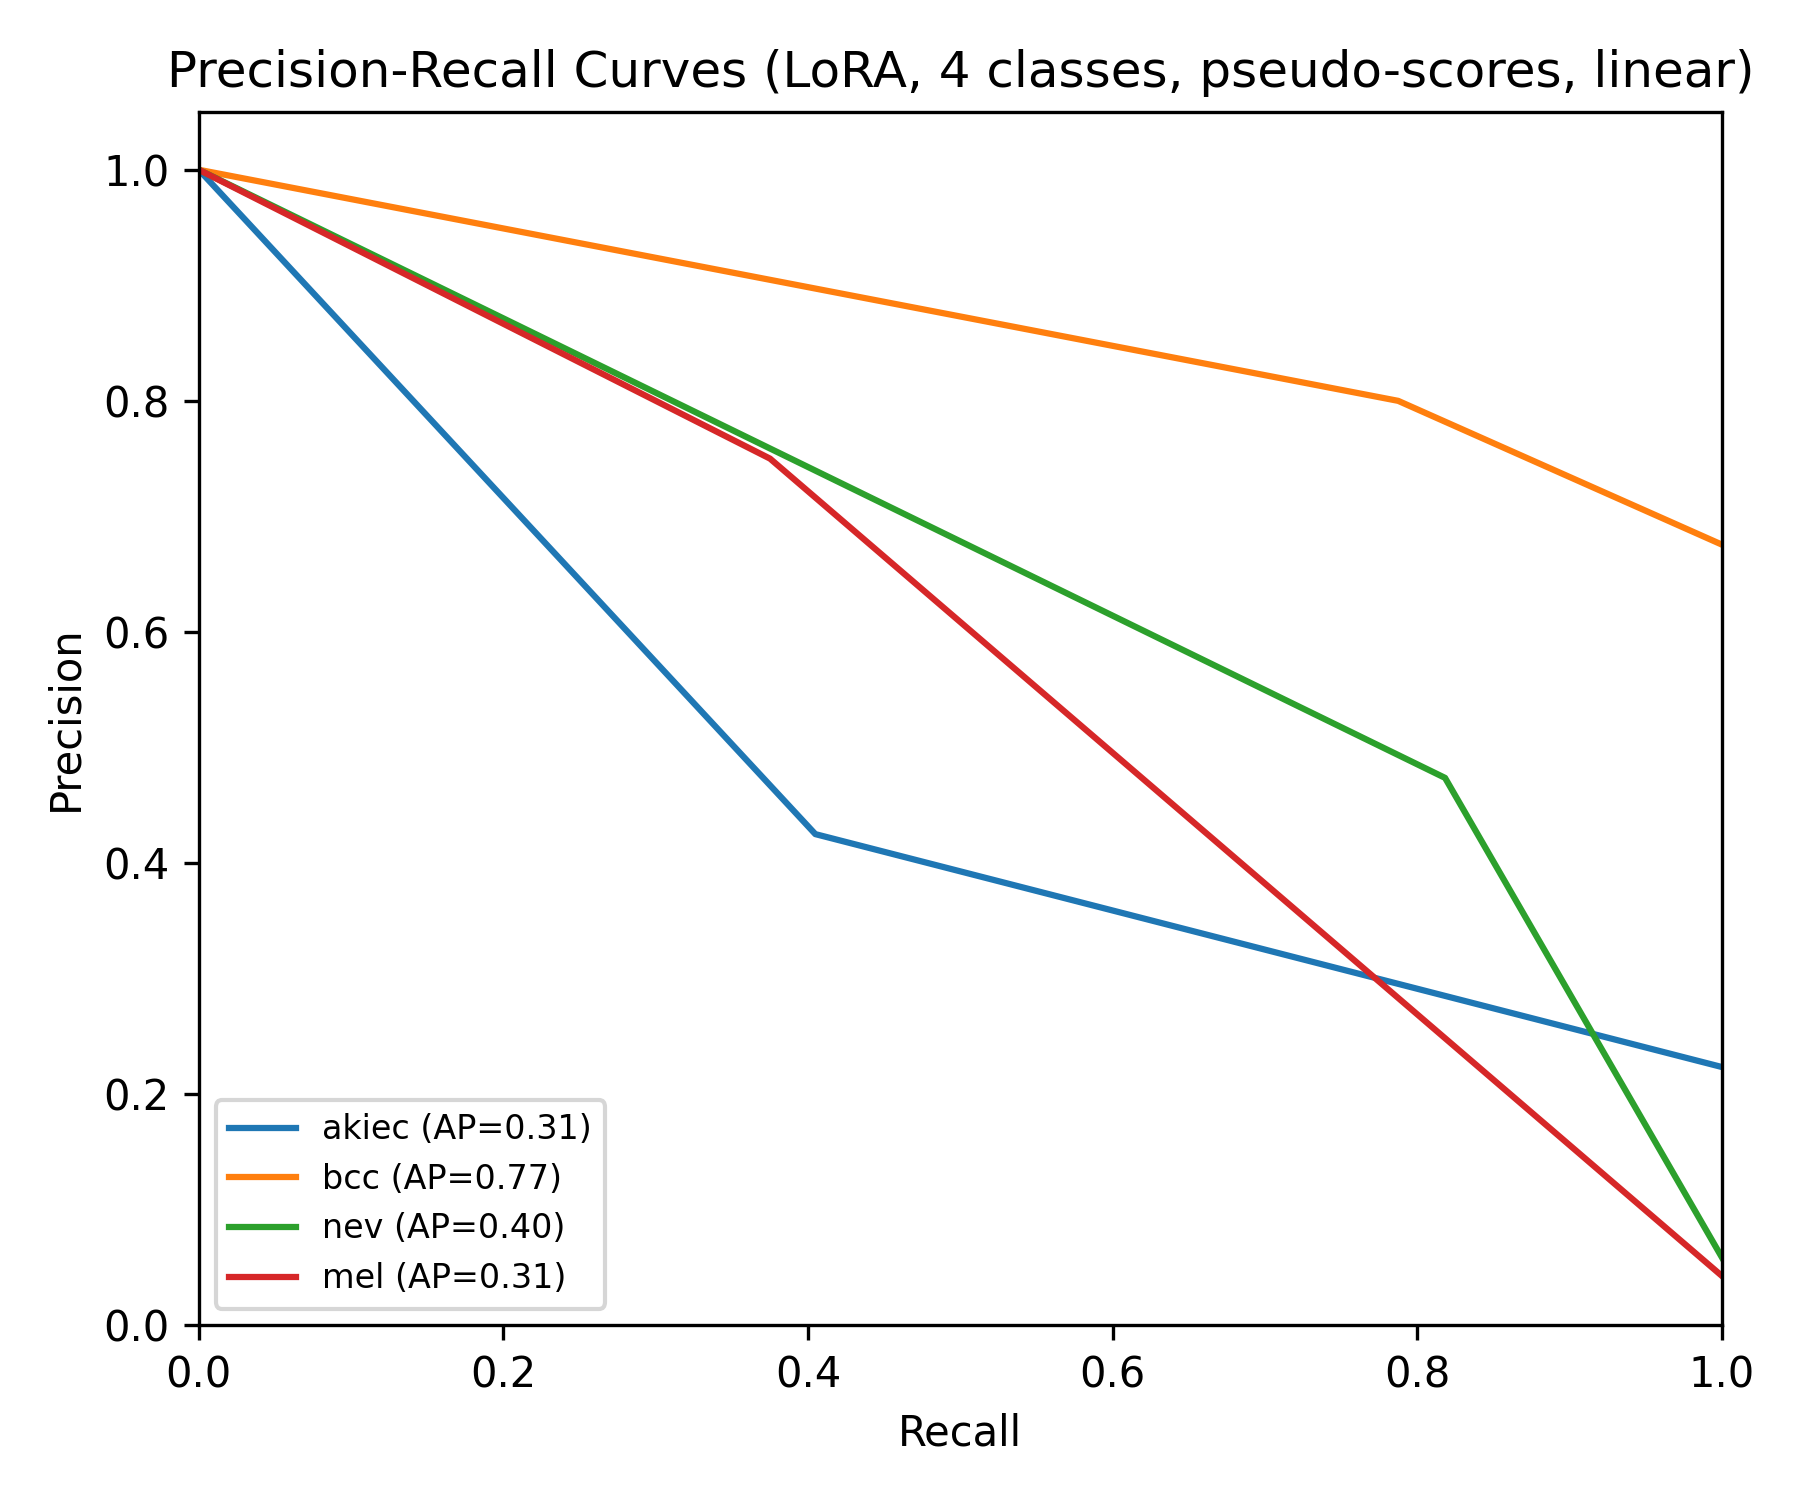
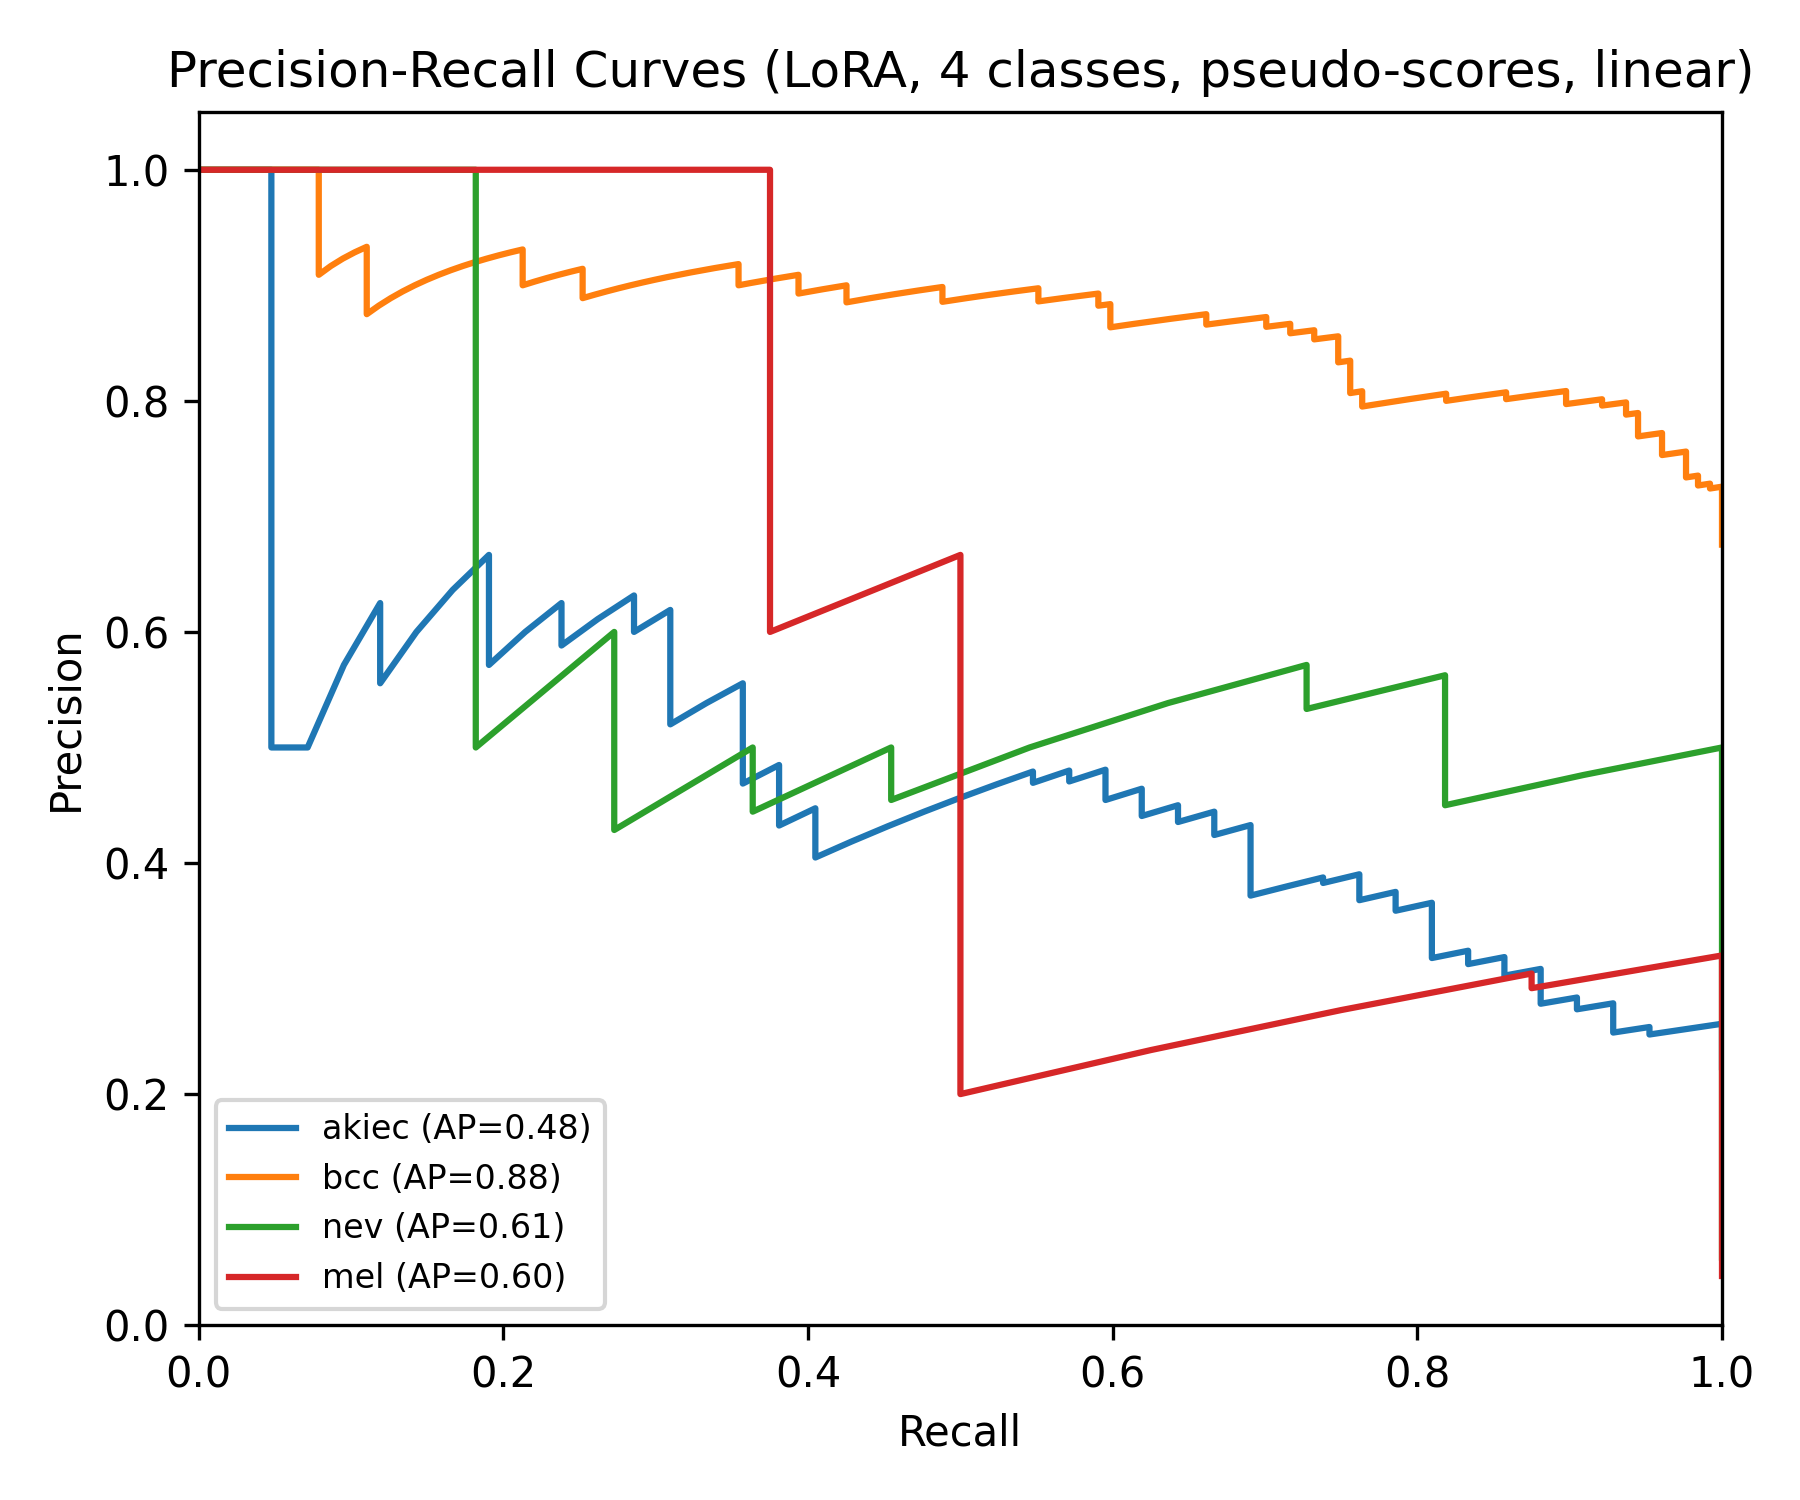
将resnet先验损失融入损失函数

diff --git a/medgemma_resnet+lora.py b/medgemma_resnet+lora.py
@@ -44,7 +44,7 @@ VAL_CSV   = r"C:\Users\zhangrx59\PycharmProjects\LoRA\metadata_val.csv"
 TEST_CSV  = r"C:\Users\zhangrx59\PycharmProjects\LoRA\metadata_test.csv"
 
 # 🔴 ResNet 视觉模块 pth 路径（你训练好的那个）
-RESNET_CKPT = r"C:\Users\zhangrx59\PycharmProjects\LoRA\best_resnet50_custom_cbam_focal.pth"
+RESNET_CKPT = r"C:\Users\zhangrx59\PycharmProjects\LoRA\vision_model\best_resnet50_custom_cbam_focal.pth"
 
 COL_IMAGE_ID    = "image_id"
 COL_AGE         = "年龄"
@@ -78,10 +78,15 @@ ALLOWED_DX = ["akiec", "bcc", "nev", "mel"]  # 固定顺序，后面要用 index
 # 建议：先用 False 训练一版「不带 ResNet 先验」做对照，如果需要再改 True
 USE_RESNET_PRIOR = False
 # 只有当 ResNet 对 top 类的概率 ≥ 该阈值时，才认为是“相对可信”的先验
-RESNET_CONF_THRESH = 0.7
+RESNET_CONF_THRESH = 0.9
 
+
+# ===== ResNet KL consistency (Scheme B) =====
+# Whether to add KL(p_llm || p_resnet) on 4-class distribution (only when ResNet is confident)
+USE_RESNET_KL = True
+RESNET_KL_WEIGHT = 0.05
 # LoRA 微调输出目录
-OUTPUT_DIR = r"C:\Users\zhangrx59\PycharmProjects\LoRA\lab5"
+OUTPUT_DIR = r"C:\Users\zhangrx59\PycharmProjects\LoRA\lab6"
 
 
 # ===================== 0.1 ResNet+CBAM 定义（用于推理） =====================
@@ -395,36 +400,45 @@ class DermMetadataDataset(TorchDataset):
         self.resnet_device = resnet_device
 
         # 缓存每个 image_id 的先验结果，确保“一张图只过一次 ResNet”
-        self._prior_cache: Dict[str, str] = {}
+        self._prior_cache: Dict[str, Tuple[str, np.ndarray]] = {}  # image_id -> (prior_text, probs4)
 
     def __len__(self):
         return len(self.df)
 
-    def _get_resnet_prior_text(self, image_id: str, pil_image: Image.Image) -> str:
-        """对单张图像做一次 ResNet 推理，输出英文先验描述，并做缓存。"""
+    def _get_resnet_prior(self, image_id: str, pil_image: Image.Image) -> Tuple[str, np.ndarray]:
+
         if image_id in self._prior_cache:
             return self._prior_cache[image_id]
 
+        # 默认：均匀分布
+        probs4 = np.array([0.25, 0.25, 0.25, 0.25], dtype=np.float32)
+
         if self.resnet_model is None:
             prior = "ResNet prior not available."
-            self._prior_cache[image_id] = prior
-            return prior
+            self._prior_cache[image_id] = (prior, probs4)
+            return prior, probs4
 
         x = self.resnet_transform(pil_image).unsqueeze(0).to(self.resnet_device)
 
         with torch.no_grad():
             logits = self.resnet_model(x)
-            probs = F.softmax(logits, dim=1).cpu().numpy()[0]
+            probs = F.softmax(logits, dim=1).cpu().numpy()[0]  # (C,)
 
-        top_idx = int(np.argmax(probs))
-        top_label = self.resnet_dx_categories[top_idx]
-        top_prob = float(probs[top_idx])
+        # 将 ResNet 的类别顺序映射到 ALLOWED_DX 顺序（只取这 4 类）
+        cls2p = {cls: float(p) for cls, p in zip(self.resnet_dx_categories, probs)}
+        probs4 = np.array([cls2p.get(cls, 0.0) for cls in ALLOWED_DX], dtype=np.float32)
+        s = float(probs4.sum())
+        if s > 0:
+            probs4 = probs4 / s
+        else:
+            probs4 = np.array([0.25, 0.25, 0.25, 0.25], dtype=np.float32)
 
-        # 收集完整概率分布（可选）
-        parts = []
-        for cls, p in zip(self.resnet_dx_categories, probs):
-            parts.append(f"{cls}={p:.3f}")
-        dist_str = ", ".join(parts)
+        top_idx = int(np.argmax(probs4))
+        top_label = ALLOWED_DX[top_idx]
+        top_prob = float(probs4[top_idx])
+
+        # 收集完整概率分布（只展示 4 类，避免混乱）
+        dist_str = ", ".join([f"{cls}={p:.3f}" for cls, p in zip(ALLOWED_DX, probs4)])
 
         # === 置信度门控：高置信度才给明确“建议”，低置信度则标记为不可靠 ===
         if top_prob >= RESNET_CONF_THRESH:
@@ -432,7 +446,7 @@ class DermMetadataDataset(TorchDataset):
                 f"The independent ResNet image classifier is relatively confident "
                 f"and suggests the lesion might be '{top_label}' "
                 f"(approximate probability {top_prob:.3f}). "
-                f"Full probability distribution: {dist_str}."
+                f"Full probability distribution (4-class): {dist_str}."
             )
         else:
             prior_text = (
@@ -441,8 +455,9 @@ class DermMetadataDataset(TorchDataset):
                 f"{dist_str}."
             )
 
-        self._prior_cache[image_id] = prior_text
-        return prior_text
+        self._prior_cache[image_id] = (prior_text, probs4)
+        return prior_text, probs4
+
 
     def __getitem__(self, idx):
         row = self.df.iloc[idx]
@@ -463,7 +478,7 @@ class DermMetadataDataset(TorchDataset):
         cls_label_idx = ALLOWED_DX.index(label)  # 0~3
 
         # 🔴 ResNet 视觉先验文本（已经做了置信度门控）
-        resnet_prior = self._get_resnet_prior_text(image_id, image)
+        resnet_prior, resnet_probs4 = self._get_resnet_prior(image_id, image)
 
         # 随机打乱 label 展示顺序，避免位置偏置
         label_list = ALLOWED_DX.copy()
@@ -540,6 +555,7 @@ class DermMetadataDataset(TorchDataset):
             "image": image,
             "target_text": target_text,
             "cls_label_idx": cls_label_idx,
+            "resnet_probs": resnet_probs4,  # (4,) aligned to ALLOWED_DX
         }
 
 
@@ -554,6 +570,7 @@ class MedGemmaCollator:
         messages_list = [eg["messages"] for eg in batch]
         targets = [eg["target_text"] for eg in batch]
         cls_labels = [eg["cls_label_idx"] for eg in batch]
+        resnet_probs = [eg.get("resnet_probs", np.array([0.25,0.25,0.25,0.25], dtype=np.float32)) for eg in batch]
 
         texts = []
         prompt_texts = []
@@ -602,6 +619,7 @@ class MedGemmaCollator:
         model_inputs["labels"] = labels
         # 新增：4 类分类标签（0~3），供 Trainer 使用
         model_inputs["cls_labels"] = torch.tensor(cls_labels, dtype=torch.long)
+        model_inputs["resnet_probs"] = torch.tensor(np.stack(resnet_probs, axis=0), dtype=torch.float32)
 
         return model_inputs
 
@@ -693,8 +711,10 @@ class Softmax5Trainer(Trainer):
 
     def compute_loss(self, model, inputs, return_outputs=False, **kwargs):
         # 兼容 Trainer 额外参数
-        labels = inputs.pop("labels")        # (B, T)
+        labels = inputs.pop("labels")          # (B, T)
         cls_labels = inputs.pop("cls_labels")  # (B,)
+        resnet_probs = inputs.pop("resnet_probs", None)  # (B, 4) or None
+
         outputs = model(**inputs)
         logits = outputs.logits  # (B, T, V)
 
@@ -710,20 +730,39 @@ class Softmax5Trainer(Trainer):
         logits_first = logits[batch_idx, first_pos, :]  # (B, V)
 
         # 只保留 N 个 label token 的 logits，得到 (B, N)
-        logits_n = logits_first[:, label_token_ids]
+        logits_n = logits_first[:, label_token_ids]  # (B, 4)
 
         # 把权重搬到和 logits 同一个 device 上
         weight = None
         if self.class_weights is not None:
             weight = self.class_weights.to(device)
 
-        # 这里直接用 functional.cross_entropy，避免 ce_loss 本身绑死在 CPU
-        loss = F.cross_entropy(
+        # 主分类损失（4 类 softmax）
+        ce_loss = F.cross_entropy(
             logits_n,
             cls_labels.to(device),
             weight=weight,
-            label_smoothing=0.1,
+            label_smoothing=0.0,
         )
+
+        # Scheme B: ResNet KL consistency（只在 ResNet 高置信样本上启用）
+        kl_loss = torch.tensor(0.0, device=device)
+        if USE_RESNET_KL and (RESNET_KL_WEIGHT > 0) and (resnet_probs is not None):
+            resnet_probs = resnet_probs.to(device)
+            # 归一化（防止数值问题）
+            resnet_probs = resnet_probs / (resnet_probs.sum(dim=-1, keepdim=True) + 1e-8)
+
+            llm_probs = F.softmax(logits_n, dim=-1)
+            resnet_probs = resnet_probs / (resnet_probs.sum(dim=-1, keepdim=True) + 1e-8)
+
+            resnet_conf, _ = resnet_probs.max(dim=-1)  # (B,)
+            mask_conf = (resnet_conf > RESNET_CONF_THRESH).float().unsqueeze(-1)  # (B,1)
+            kl = F.kl_div(resnet_probs.log(), llm_probs, reduction="none")  # 这才是 KL(p_llm || p_resnet)
+            kl_loss = (kl * mask_conf).sum(dim=-1)  # 每样本一个 kl
+            kl_loss = (kl_loss * mask_conf.squeeze(-1)).sum() / (mask_conf.squeeze(-1).sum() + 1e-8)
+
+
+        loss = ce_loss + RESNET_KL_WEIGHT * kl_loss
 
         if return_outputs:
             return loss, outputs

diff --git a/evaluate_medgemma+rag.py b/evaluate_medgemma+rag.py
@@ -415,6 +415,7 @@ def evaluate_lora_linear():
 
 
     y_true, y_pred = [], []
+    y_score_probs = []  # FIX: store softmax probs for ROC/PR
     total, correct = 0, 0
     missing_image = 0
 
@@ -506,7 +507,7 @@ def evaluate_lora_linear():
 
         prompt_text = processor.apply_chat_template(
             messages,
-            add_generation_prompt=True,
+            add_generation_prompt=False,
             tokenize=False,
         )
 
@@ -527,6 +528,7 @@ def evaluate_lora_linear():
 
         # === ② mel 阈值处理：如果 mel 概率不够高，则压一压 mel 再选一次 ===
         probs_4 = torch.softmax(logits_4, dim=-1)
+        y_score_probs.append(probs_4.detach().cpu().numpy())  # FIX
         pred_idx = int(torch.argmax(probs_4).item())
 
         if pred_idx == mel_idx and probs_4[mel_idx] < mel_thresh:
@@ -607,6 +609,7 @@ def evaluate_lora_linear():
 
     # ROC & PR（使用 one-hot 预测当作 score 近似）
     y_true_bin = label_binarize(y_true_arr, classes=classes)
+    y_score_probs = np.vstack(y_score_probs)  # FIX: (N, C) softmax probabilities
     scores = np.zeros_like(y_true_bin, dtype=float)
     for i, pred in enumerate(y_pred_arr):
         if pred in classes:
@@ -617,7 +620,7 @@ def evaluate_lora_linear():
     fig_roc, ax_roc = plt.subplots(figsize=(6, 5))
     for idx, cls in enumerate(classes):
         try:
-            fpr, tpr, _ = roc_curve(y_true_bin[:, idx], scores[:, idx])
+            fpr, tpr, _ = roc_curve(y_true_bin[:, idx], y_score_probs[:, idx])
             roc_auc = auc(fpr, tpr)
             ax_roc.plot(fpr, tpr, label=f"{cls} (AUC={roc_auc:.2f})")
         except ValueError:
@@ -641,9 +644,9 @@ def evaluate_lora_linear():
     for idx, cls in enumerate(classes):
         try:
             precision, recall, _ = precision_recall_curve(
-                y_true_bin[:, idx], scores[:, idx]
+                y_true_bin[:, idx], y_score_probs[:, idx]
             )
-            ap = average_precision_score(y_true_bin[:, idx], scores[:, idx])
+            ap = average_precision_score(y_true_bin[:, idx], y_score_probs[:, idx])
             ax_pr.plot(recall, precision, label=f"{cls} (AP={ap:.2f})")
         except ValueError:
             continue

diff --git a/evaluate_medgemma.py b/evaluate_medgemma.py
@@ -38,14 +38,14 @@ METADATA_CSV = r"C:\Users\zhangrx59\PycharmProjects\LoRA\metadata_isic_with_shap
 TEST_CSV  = r"C:\Users\zhangrx59\PycharmProjects\LoRA\metadata_test.csv"
 
 # LoRA 权重所在目录（要和微调脚本里的 OUTPUT_DIR 一致）
-LORA_DIR = r"C:\Users\zhangrx59\PycharmProjects\LoRA\lab5"
+LORA_DIR = r"C:\Users\zhangrx59\PycharmProjects\LoRA\lab6"
 
 # 图像根目录和后缀
 IMAGE_ROOT_DIR = r"C:\Users\zhangrx59\PycharmProjects\LoRA\ISIC_dataset"
 IMAGE_EXT = ".png"   # 如果是 .jpg 改成 ".jpg"
 
 # 评估图像保存目录
-LORA_PLOTS_DIR = r"/lab5_results"
+LORA_PLOTS_DIR = r"C:\Users\zhangrx59\PycharmProjects\LoRA\lab6_results"
 os.makedirs(LORA_PLOTS_DIR, exist_ok=True)
 
 # 列名（与微调脚本保持一致）

diff --git a/vision_model/evaluate_resnet.py b/vision_model/evaluate_resnet.py
@@ -40,7 +40,7 @@ from sklearn.preprocessing import label_binarize
 TEST_CSV = r"C:\Users\zhangrx59\PycharmProjects\LoRA\metadata_test.csv"
 
 # 图片根目录（和训练脚本保持一致）
-IMAGE_ROOT_DIR = r"/ISIC_dataset"
+IMAGE_ROOT_DIR = r"C:\Users\zhangrx59\PycharmProjects\LoRA\ISIC_dataset"
 
 # 会依次尝试的图片后缀（和训练脚本保持一致）
 IMAGE_EXT_CANDIDATES = [".png", ".jpg", ".jpeg", ".PNG", ".JPG", ".JPEG"]
